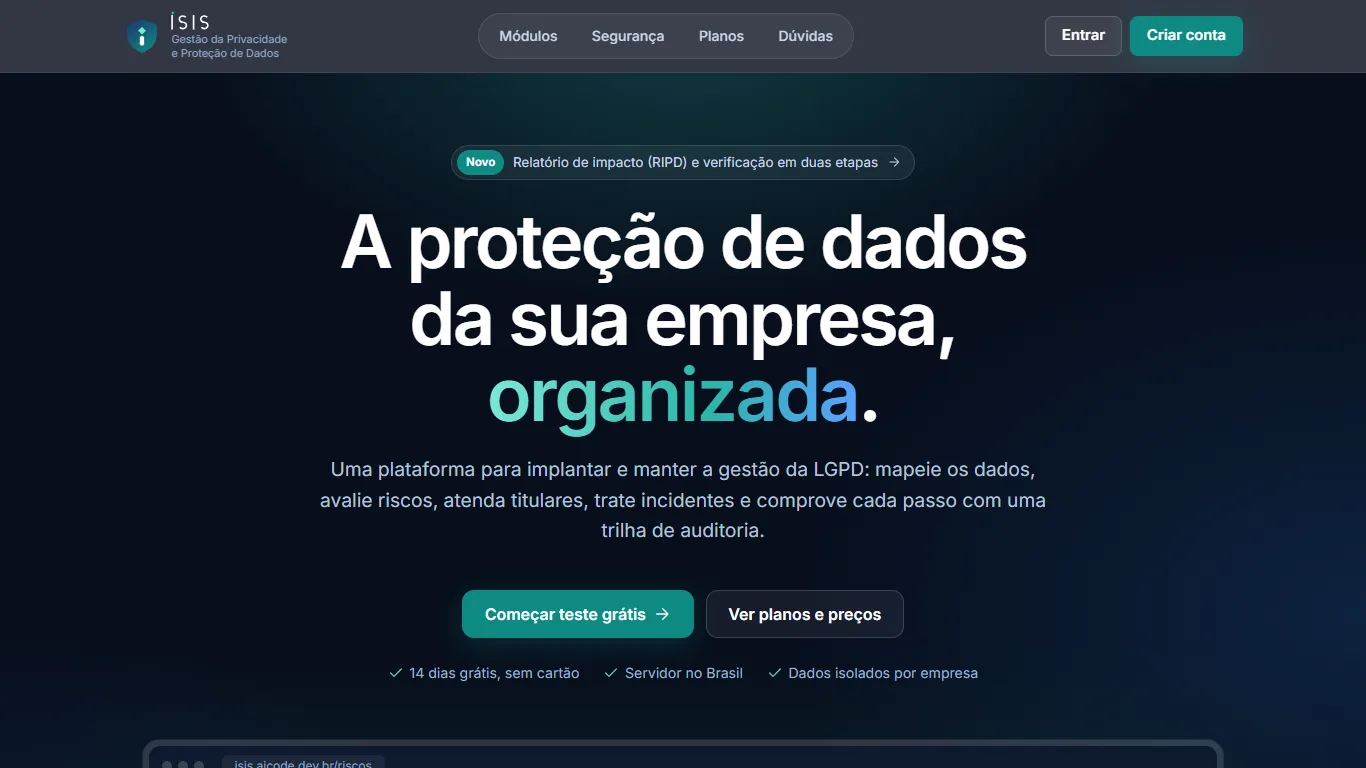
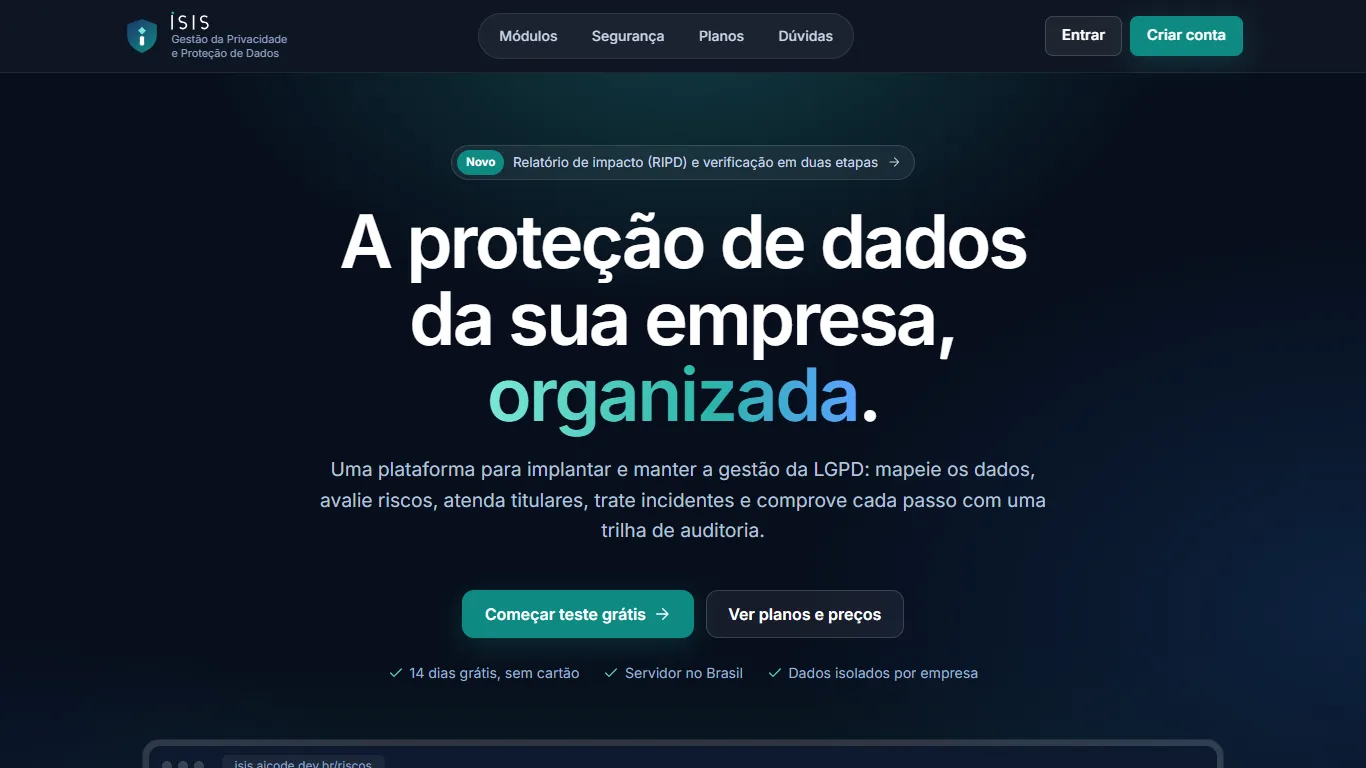
refactor: ajustar estilo do cabeçalho e atualizar imagens manuais

Changed region(s): [[0.0, 0.0, 1.0, 0.0938]]

diff --git a/public/assets/css/app.css b/public/assets/css/app.css
@@ -459,7 +459,7 @@ details.changes pre { white-space: pre-wrap; word-break: break-word; background:
 .section-title { font-size: .78rem; text-transform: uppercase; letter-spacing: .08em; color: var(--muted); font-weight: 700; margin: 1.5rem 0 .75rem; }
 
 /* ---------- Página pública ---------- */
-.site-header { position: sticky; top: 0; z-index: 30; background: rgba(7, 14, 28, .82); backdrop-filter: blur(14px); border-bottom: 1px solid rgba(255,255,255,.07); }
+.site-header { position: sticky; top: 0; z-index: 30; background: rgba(7, 14, 28, .97); backdrop-filter: blur(14px); border-bottom: 1px solid rgba(255,255,255,.07); }
 .site-header .inner { display: flex; align-items: center; justify-content: space-between; gap: 1rem; }
 .site-header .brand { color: #fff; padding: .7rem 0; }
 .site-header .brand-sub { color: #8ea4c8; }

diff --git a/tests/Integration/OperationsTest.php b/tests/Integration/OperationsTest.php
@@ -94,7 +94,10 @@ final class OperationsTest extends DatabaseTestCase
         self::assertArrayHasKey($dpo, $byUser, 'O encarregado tem pendências nos dados demonstrativos.');
         self::assertArrayHasKey('Ações dos planos', $byUser[$dpo], 'Ação vencida do encarregado.');
         self::assertArrayHasKey('Solicitações sem responsável', $byUser[$dpo], 'Pedido de titular ainda sem responsável.');
-        self::assertArrayNotHasKey((int) $clinic['users']['auditor']['id'], $byUser, 'Quem não tem pendências não recebe e-mail.');
+        // Políticas para dar ciência entram só no lembrete de segunda-feira; fora isso, o auditor não tem pendências.
+        $auditorGroups = $byUser[(int) $clinic['users']['auditor']['id']] ?? [];
+        unset($auditorGroups['Políticas para ler e dar ciência']);
+        self::assertSame([], $auditorGroups, 'Quem não tem pendências não recebe e-mail.');
 
         Mailer::$sent = [];
         $first = ReminderService::run();
